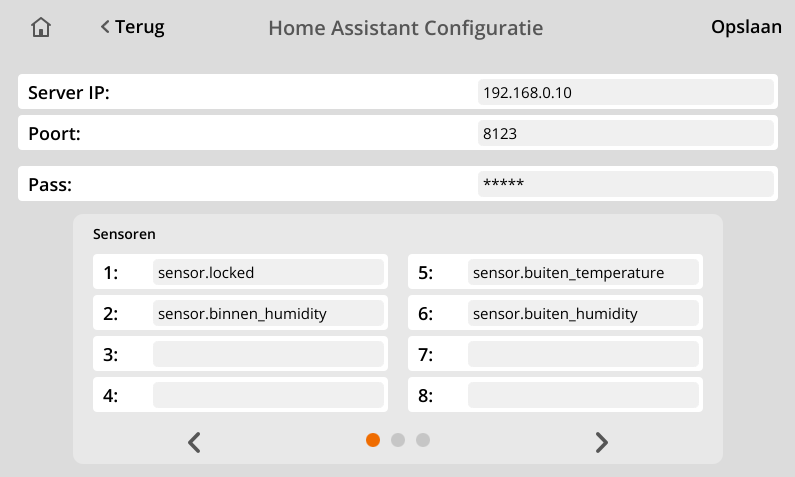
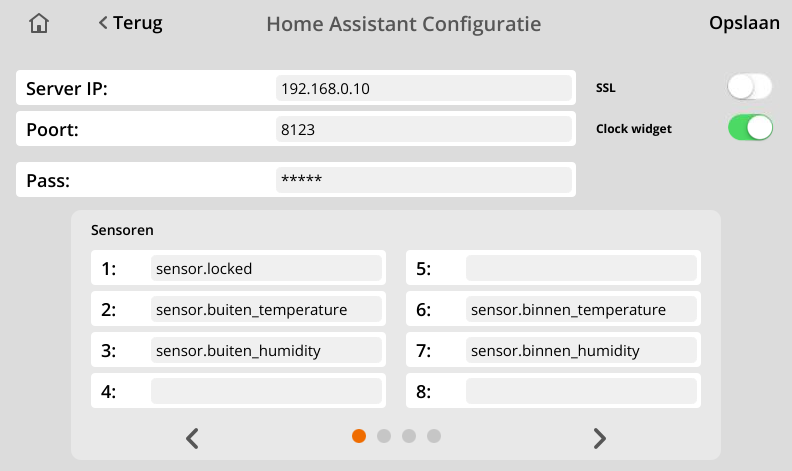
Clock option & sensor info added for tile

diff --git a/homeassistant/HomeassistantTile.qml b/homeassistant/HomeassistantTile.qml
@@ -12,31 +12,161 @@ Tile {
 			app.homeAssistantScreen.show();
 	}
 
-	Image {
-		id: homeAssistantIconSmall
-		source: dimState ? "./drawables/homeAssistantIconSmallDim.png" : "./drawables/homeAssistantIconSmall.png"
+	Text {
+		id: txtTimeBig
+		text: app.timeStr
+		color: colors.clockTileColor
 		anchors {
+			left: parent.left
+			leftMargin: 10
 			baseline: parent.top
-			baselineOffset: 64
-			horizontalCenter: parent.horizontalCenter
+			baselineOffset: 54
 		}
-		cache: false
+		font.pixelSize: dimState ? qfont.clockFaceText : qfont.timeAndTemperatureText - 4
+		font.family: qfont.regular.name
+		visible: app.clockTile ? true : false
 	}
 
 	Text {
-		id: txtHomeAssistantBig
-		text: "Home Assistant"
+		id: txtDate
+		text: app.dateStr
+		color: colors.clockTileColor
 		anchors {
-			baseline: parent.top
-			baselineOffset: 36
-			horizontalCenter: parent.horizontalCenter
+			left: txtTimeBig.left
+			top: txtTimeBig.bottom
+			topMargin: -10
 		}
-		font {
-			family: qfont.bold.name
-			pixelSize: 20
-		}
-		color: colors.waTileTextColor
-       		visible: !dimState
+		horizontalAlignment: Text.AlignHCenter
+		font.pixelSize: qfont.tileTitle - 2
+		font.family: qfont.regular.name
+		visible: app.clockTile ? !dimState : false
 	}
 
+	Image {
+		id: homeAssistantIconSmall
+		source: "./drawables/homeAssistantIconSmall.png"
+		anchors {
+			bottom: txtDate.bottom
+			right: parent.right
+			rightMargin: 10
+		}
+		cache: false
+		visible: app.clockTile ? !dimState : false
+	}
+
+	Image {
+		id: homeAssistantIconSmallCenter
+		source: dimState ? "./drawables/homeAssistantIconSmallDim.png" : "./drawables/homeAssistantIconSmall.png"
+		anchors {
+			baseline: parent.top
+			horizontalCenter: parent.horizontalCenter
+			baselineOffset: 15
+		}
+		cache: false
+		visible: app.clockTile ? false : true
+	}
+
+	Rectangle {
+        id: tileGrid
+        color: "transparent"
+		width: parent.width - 20
+		height: 60
+		anchors {
+			bottom: parent.bottom
+			left: parent.left
+			bottomMargin: 10
+			leftMargin: 10
+		}
+
+		Text {
+			id: lblSensor1
+			text: JSON.parse(app.homeAssistantSensor1Info)['attributes']['friendly_name']
+			color: colors.clockTileColor
+			height: 20
+			width: tileGrid.width - 40
+			anchors {
+				left: parent.left
+				top: parent.top
+			}
+			font.pixelSize: 12
+			font.family: qfont.regular.name
+			font.bold : true
+		}
+
+		Text {
+			id: valueSensor1
+			text: JSON.parse(app.homeAssistantSensor1Info)['attributes']['unit_of_measurement'] ? JSON.parse(app.homeAssistantSensor1Info)['state'] + " " + JSON.parse(app.homeAssistantSensor1Info)['attributes']['unit_of_measurement'] : JSON.parse(app.homeAssistantSensor1Info)['state']
+			color: colors.clockTileColor
+			height: 20
+			width: 40
+			anchors {
+				right: parent.right
+				top: lblSensor1.top
+				rightMargin: 0
+			}
+			font.pixelSize: 12
+			font.family: qfont.regular.name
+			font.bold : true
+		}
+
+		Text {
+			id: lblSensor2
+			text: JSON.parse(app.homeAssistantSensor2Info)['attributes']['friendly_name']
+			color: colors.clockTileColor
+			height: 20
+			width: tileGrid.width - 40
+			anchors {
+				left: parent.left
+				top: lblSensor1.bottom
+			}
+			font.pixelSize: 12
+			font.family: qfont.regular.name
+			font.bold : true
+		}
+
+		Text {
+			id: valueSensor2
+			text: JSON.parse(app.homeAssistantSensor2Info)['attributes']['unit_of_measurement'] ? JSON.parse(app.homeAssistantSensor2Info)['state'] + " " + JSON.parse(app.homeAssistantSensor2Info)['attributes']['unit_of_measurement'] : JSON.parse(app.homeAssistantSensor2Info)['state']
+			color: colors.clockTileColor
+			height: 20
+			width: 40
+			anchors {
+				right: parent.right
+				top: lblSensor2.top
+			}
+			font.pixelSize: 12
+			font.family: qfont.regular.name
+			font.bold : true
+		}
+
+		Text {
+			id: lblSensor3
+			text: JSON.parse(app.homeAssistantSensor3Info)['attributes']['friendly_name']
+			color: colors.clockTileColor
+			height: 20
+			width: tileGrid.width - 40
+			anchors {
+				left: parent.left
+				top: lblSensor2.bottom
+			}
+			font.pixelSize: 12
+			font.family: qfont.regular.name
+			font.bold : true
+		}
+
+		Text {
+			id: valueSensor3
+			text: JSON.parse(app.homeAssistantSensor3Info)['attributes']['unit_of_measurement'] ? JSON.parse(app.homeAssistantSensor3Info)['state'] + " " + JSON.parse(app.homeAssistantSensor3Info)['attributes']['unit_of_measurement'] : JSON.parse(app.homeAssistantSensor3Info)['state']
+			color: colors.clockTileColor
+			height: 20
+			width: 40
+			anchors {
+				right: parent.right
+				top: lblSensor3.top
+			}
+			font.pixelSize: 12
+			font.family: qfont.regular.name
+			font.bold : true
+		}
+	}
 }

diff --git a/homeassistant/HomeassistantConfigurationScreen.qml b/homeassistant/HomeassistantConfigurationScreen.qml
@@ -206,9 +206,9 @@ Screen {
 
         EditTextLabel4421 {
             id: homeAssistantServerLabel
-            width: 660
+            width: 560
             height: 35
-            leftTextAvailableWidth: 450
+            leftTextAvailableWidth: 250
             leftText: "Server IP:"
     
             onClicked: {
@@ -218,7 +218,7 @@ Screen {
 
         Rectangle {
             id: sslRect
-            width: 100
+            width: 200
             height: 35
             color: "transparent"
             anchors {
@@ -228,7 +228,7 @@ Screen {
 
             Text {
                 id: sslLabel
-                width: 50
+                width: 150
                 text: "SSL"
                 font.pixelSize: 12
                 color: "Black" 
@@ -266,9 +266,9 @@ Screen {
 
         EditTextLabel4421 {
             id: homeAssistantPortLabel
-            width: 760
+            width: 560
             height: 35
-            leftTextAvailableWidth: 450
+            leftTextAvailableWidth: 250
             leftText: "Poort:"
             anchors {
                 top: homeAssistantServerLabel.bottom
@@ -282,11 +282,59 @@ Screen {
             }
         }
 
+        Rectangle {
+            id: clockRect
+            width: 200
+            height: 35
+            color: "transparent"
+            anchors {
+                top: homeAssistantPortLabel.top
+                left: homeAssistantPortLabel.right
+            }
+
+            Text {
+                id: clockLabel
+                width: 150
+                text: "Clock widget"
+                font.pixelSize: 12
+                color: "Black" 
+                wrapMode: Text.WordWrap
+                anchors {
+                    left: parent.left
+                    verticalCenter: parent.verticalCenter
+                    leftMargin: 20
+                }
+            }
+
+            Image {
+                id: clockButton
+                width: 50
+                height: 35
+                source: app.clockTile ? app.imgButtonOn : app.imgButtonOff
+                smooth: true
+                anchors {
+                    right: parent.right
+                    verticalCenter: parent.verticalCenter
+                }
+
+                MouseArea {
+                    anchors.fill: parent
+                    onClicked: {
+                        if (app.clockTile) {
+                            app.clockTile = 0;
+                        } else {
+                            app.clockTile = 1;
+                        }
+                    }
+                }
+            }
+        }
+
         EditTextLabel4421 {
             id: homeAssistantPassLabel
-            width: 760
+            width: 560
             height: 35
-            leftTextAvailableWidth: 450
+            leftTextAvailableWidth: 250
             leftText: "Pass:"
             anchors {
                 top: homeAssistantPortLabel.bottom

diff --git a/homeassistant/HomeassistantApp.qml b/homeassistant/HomeassistantApp.qml
@@ -210,6 +210,34 @@ App {
         source: "./alarm.json"
     }
 
+    property string timeStr
+    property string dateStr
+    property int clockTile
+
+    function updateClockInfo() {
+        var now = new Date().getTime();
+        timeStr = i18n.dateTime(now, i18n.time_yes);
+        dateStr = i18n.dateTime(now, i18n.mon_full);
+    }
+
+    Timer {
+        id: datetimeTimer
+        interval: 1000
+        triggeredOnStart: true
+        running: true
+        repeat: true
+        onTriggered: updateClockInfo()
+    }
+
+    Timer {
+        id: datetimeTimer2
+        interval: 60000
+        triggeredOnStart: true
+        running: true
+        repeat: true
+        onTriggered: getSensorInfo()
+    }
+
     //Check if connection to Home Assistant can be made
     function checkConnection() {
         var http = new XMLHttpRequest();
@@ -247,6 +275,7 @@ App {
             "SSL" : homeAssistantSSL,
             "Port" : homeAssistantPort,
             "Pass" : homeAssistantPass,
+            "Clock" : clockTile,
         }
         var doc2 = new XMLHttpRequest();
         doc2.open("PUT", "file:///HCBv2/qml/apps/homeassistant/userSettings.json");
@@ -527,6 +556,7 @@ App {
         homeAssistantSSL = homeAssistantSettingsJson ['SSL'];
         homeAssistantPort = homeAssistantSettingsJson ['Port'];
         homeAssistantPass = homeAssistantSettingsJson ['Pass'];
+        clockTile = homeAssistantSettingsJson ['Clock'];
         
         if (homeAssistantSSL == "yes") {
             url = "https://" + homeAssistantServer + ":" + homeAssistantPort;
